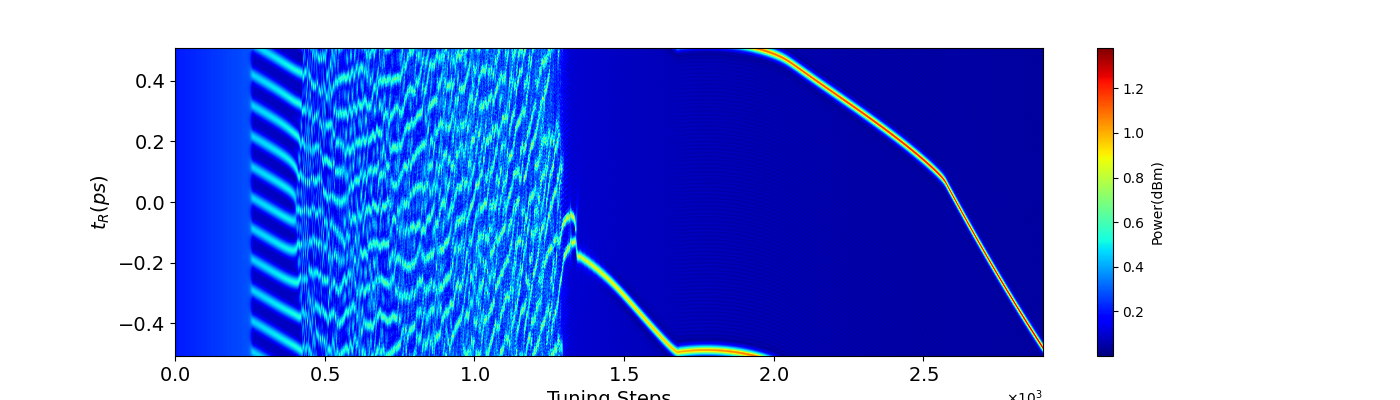
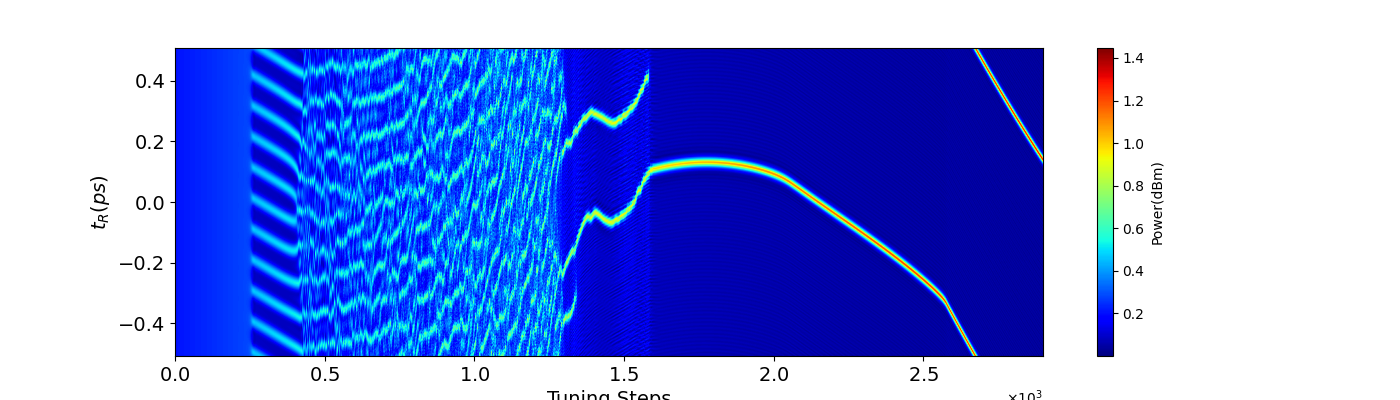
reward reformulation

diff --git a/rl_mrr_all_ddqn_copy.py b/rl_mrr_all_ddqn_copy.py
@@ -338,8 +338,8 @@ class RL_MRR_Env():
         self.step_cntr = 0
         self.pcav_hist = []
 
-        self.power = np.random.uniform(0.12, 0.18, size=(1,))
-        # self.power = np.array([0.18])
+        # self.power = np.random.uniform(0.12, 0.18, size=(1,))
+        self.power = np.array([0.14])
         Ppmp = torch.tensor(self.power, dtype=torch.float64)
         # # fpmp = fpmp[0]
         # Ain = torch.zeros(1, len(self.mu),dtype=torch.complex128, device=DEVICE)
@@ -374,7 +374,7 @@ class RL_MRR_Env():
             curr_pcav = np.sum(np.abs(Acav_np))
             self.pcav_hist.append(curr_pcav)
 
-        self.primary_sidebands_flag = False
+        self.alpha_ = 0.75
         
         print('Reset...')
         return self.state, Acav_np, Ecav_dBm.numpy()
@@ -446,7 +446,7 @@ class RL_MRR_Env():
             reward = 2*torch.corrcoef(torch.stack([desired_spectrum_dBm, Ecav_dBm]))[0,1].item() + 2
             # reward = np.array(reward).reshape(1,)
         
-        if torch.linalg.vector_norm(desired_spectrum_dBm-Ecav_dBm, ord=2) < 50:
+        if torch.allclose(Ecav_dBm, desired_spectrum_dBm, atol=1):
             achieved = True
             reward += 5
         else:
@@ -464,24 +464,20 @@ class RL_MRR_Env():
         if len(self.pcav_hist) > 10000:
             self.pcav_hist.pop(0)
         
-        if self.step_cntr<45000 and self.primary_sidebands_flag==False:
-            self.primary_sidebands_flag = np.corrcoef(self.primary_sidebands, Ecav_dBm.cpu().numpy())[0,1]<0.5
-        
-        if self.step_cntr == 45000 and self.primary_sidebands_flag == False:
-            done = True
-            reward -= 10
-            print('Primary Sidebands not formed')
-            print('Corr:',np.corrcoef(self.primary_sidebands, Ecav_dBm.cpu().numpy())[0,1])
-        elif self.step_cntr-self.init_steps_ >= int(0.5*self.max_steps):
-            if torch.corrcoef(torch.stack([desired_spectrum_dBm, Ecav_dBm]))[0,1].item() < 0.3:
+        if self.step_cntr > 35000 and self.step_cntr < 45000:
+            if np.corrcoef(self.primary_sidebands, Ecav_dBm.cpu().numpy())[0,1]<0.5:
+                done = True
+                reward -= 10
+                # print('Primary Sidebands not formed')
+        elif self.step_cntr >= int(0.5*self.max_steps):
+            if torch.corrcoef(torch.stack([desired_spectrum_dBm, Ecav_dBm]))[0,1].item()<0.2:
                 done = True
                 reward -= 5
                 # print('Pcav Corr:',corr)
-                print('Spectral Corr:', torch.corrcoef(torch.stack([desired_spectrum_dBm, Ecav_dBm]))[0,1].item())
-    
-        if self.step_cntr+1 == self.max_steps:
+                # print('Spectral Corr:', torch.corrcoef(torch.stack([desired_spectrum_dBm, Ecav_dBm]))[0,1].item())
+        elif self.step_cntr == self.max_steps:
             done = True
-            # reward += 5
+            reward += 5
         
         return self.next_state, reward, done, achieved, Acav_np, Ecav_dBm.cpu().numpy()
 
@@ -506,7 +502,7 @@ desired_spectrum_tensor = torch.tensor(desired_spectrum, device=DEVICE, dtype=to
 
 from dueling_dqn import Agent
 agent = Agent(n_actions=3, input_dims=[441], lr=5e-4, warm_up=50000, batch_size=128, gamma=0.99,\
-                eps_min=0.05, replace=1000, checkpoint_dir='./tmp/dueling_ddqn', run_name='ddqn_diff_power')
+                eps_min=0.05, replace=1000, checkpoint_dir='./tmp/dueling_ddqn', run_name='ddqn_const_pow')
 print(agent.q_eval)
 
 # %%
@@ -529,7 +525,6 @@ for i in range(n_games):
     done = False
     n_steps = 0
     state, acav, ecav = env.reset(10000)
-    logs['pump power'] = env.power
     while not done:
         action = agent.choose_action(ecav/10)
         
@@ -583,6 +578,7 @@ for i in range(n_games):
         agent.save_model()
 
     print('episode ', i, 'score %.2f' % score, 'average score %.2f' % avg_score,'best score %.2f' % best_score, 'n_steps', n_steps)
+
 # %%
 plt.figure(figsize=(10,6))
 plt.plot(scores)
@@ -590,7 +586,7 @@ plt.grid()
 plt.xlabel('Episodes')
 plt.ylabel('Scores')
 plt.title('Scores vs Episodes')
-plt.savefig('./maddpg_results/'+agent.run_name+'_scores_vs_episodes.png')
+plt.savefig('./maddpg_results/scores_vs_episodes.png')
 plt.show()
 # %%
 agent_frozen = agent
@@ -607,16 +603,16 @@ acav_hist = []
 score = 0
 done = False
 pcav_hist = []
-pbar = tqdm(total=env.max_steps-env.init_steps_, ncols=120)
+# pbar = tqdm(total=env.max_steps-env.init_steps_, ncols=120)
 idx = 0
 done = False
 ecav_hist = []
 achieved = False
-while not done:
-# for idx in tqdm(range(env.init_steps_, env.max_steps), ncols=120):
+# while not done:
+for idx in tqdm(range(env.init_steps_, env.max_steps), ncols=120):
     # perform random actions
     # try:
-        # action = #agent.choose_action(ecav, True)
+        # action = agent.choose_action(ecav, True)
         if achieved==True:
             action = 2
         else:
@@ -634,25 +630,25 @@ while not done:
         if idx %100 == 0:        
             acav_hist.append(acav_)
         idx += 1
-        pbar.update(1)
+        # pbar.update(1)
     # except KeyboardInterrupt:
     #     pbar.close()
     #     break
     # if keyboard interrupt then close the progress bar
-pbar.close()
+# pbar.close()
 
 print('Test score %.2f' % score)
 # %%
-plt.figure(figsize=(14, 4))
-plt.imshow(np.array(ecav_hist).T, aspect='auto', cmap='jet',\
-            extent=[0, len(ecav_hist), -1e12*env.tR.item()/2, 1e12*env.tR.item()/2])
-plt.colorbar(label='Power(dBm)')
-plt.xlabel('Tuning Steps')
-plt.ylabel(r'$\mu$' +'(rel)', fontsize=14)
-# plt.xticks(fontsize=14)
-# plt.yticks(fontsize=14)
+# plt.figure(figsize=(14, 4))
+# plt.imshow(np.array(ecav_hist).T, aspect='auto', cmap='jet',\
+#             extent=[0, len(ecav_hist), -1e12*env.tR.item()/2, 1e12*env.tR.item()/2])
+# plt.colorbar(label='Power(dBm)')
+# plt.xlabel('Tuning Steps')
+# plt.ylabel(r'$\mu$' +'(rel)', fontsize=14)
+# # plt.xticks(fontsize=14)
+# # plt.yticks(fontsize=14)
 # plt.xlim(0,40000)
-plt.show()
+# plt.show()
 # %%
 # find correlation between the obtained pcav and r_hist[:,-1]
 plt.figure(figsize=(10, 6))
@@ -702,7 +698,7 @@ formatter.set_powerlimits((-1, 1))
 plt.gca().xaxis.set_major_formatter(formatter)
 plt.xlabel('Tuning Steps', fontsize=14)
 plt.ylabel(r'$t_R (ps)$', fontsize=14)
-# plt.savefig('./maddpg_results/'+agent.run_name+'_ecav_hist_spec_all_ctrl.png')
+plt.savefig('./maddpg_results/'+agent.run_name+'_ecav_hist_spec_all_ctrl.png')
 plt.show()
 
 # %%
@@ -717,7 +713,7 @@ plt.ylabel(r'$\mu$' +'(rel)', fontsize=14)
 plt.colorbar(label='Power(dBm)')
 plt.xticks(fontsize=14)
 plt.yticks(fontsize=14)
-# plt.savefig('./maddpg_results/'+agent.run_name+'_ecav_hist_ifft_spec_all_ctrl.png')
+plt.savefig('./maddpg_results/'+agent.run_name+'_ecav_hist_ifft_spec_all_ctrl.png')
 plt.show()
 # %% Reward Plot
 plt.figure(figsize=(10, 6))
@@ -725,7 +721,7 @@ plt.plot(r_hist)
 plt.xlabel('Iteration', fontsize=14)
 plt.ylabel('Reward ', fontsize=14)
 plt.grid()
-# plt.savefig('./maddpg_results/'+agent.run_name+'_rewards_spec_all_ctrl.png')
+plt.savefig('./maddpg_results/'+agent.run_name+'_rewards_spec_all_ctrl.png')
 plt.show()
 # %%
 # desired_spectrum_dBm = 10*torch.log10(torch.abs(desired_spectrum)**2)+30
@@ -741,7 +737,7 @@ plt.ylim(-90,5)
 plt.xticks(fontsize=14)
 plt.yticks(fontsize=14)
 plt.legend(fontsize=14)
-# plt.savefig('./maddpg_results/'+agent.run_name+'_ecav_spec_all_ctrl.png')
+plt.savefig('./maddpg_results/'+agent.run_name+'_ecav_spec_all_ctrl.png')
 plt.show()
 # %%
 action_hist = np.array(action_hist)

diff --git a/dueling_dqn.py b/dueling_dqn.py
@@ -77,7 +77,7 @@ class DuelingDQN(nn.Module):
     
 
 class Agent:
-    def __init__(self, n_actions, input_dims, lr=1e-4, mem_size=int(1e6), batch_size=128, gamma=0.99,\
+    def __init__(self, n_actions, input_dims, run_name, lr=1e-4, mem_size=int(1e6), batch_size=128, gamma=0.99,\
                  eps_min=0.01, warm_up=10000, replace=1000, checkpoint_dir='./tmp/dueling_ddqn'):
         
         self.gamma = gamma
@@ -88,11 +88,12 @@ class Agent:
         self.eps_dec = (1-self.eps_min)/self.warm_up
         self.batch_size = batch_size
         self.replace_target_cnt = replace
+        self.run_name = run_name
         
         self.memory = ReplayBuffer(mem_size, input_dims, n_actions)
 
-        self.q_eval = DuelingDQN(lr, n_actions, input_dims, name='dueling_dqn_eval', chkpt_dir=checkpoint_dir)
-        self.q_next = DuelingDQN(lr, n_actions, input_dims, name='dueling_dqn_next', chkpt_dir=checkpoint_dir)
+        self.q_eval = DuelingDQN(lr, n_actions, input_dims, name=run_name+'_dueling_dqn_eval', chkpt_dir=checkpoint_dir)
+        self.q_next = DuelingDQN(lr, n_actions, input_dims, name=run_name+'_dueling_dqn_next', chkpt_dir=checkpoint_dir)
 
         self.q_next.load_state_dict(self.q_eval.state_dict())
         
